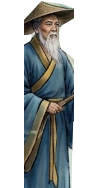
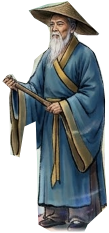
隱藏仙翁改為在涼亭左前角垂釣（鏡像全身圖＋釣竿、釣線、水面漣漪）
Claude-Session: https://claude.ai/code/session_01A7jMcJBPDH7pkvwAGS9G7v

diff --git a/index.html b/index.html
@@ -1358,6 +1358,15 @@
         .town-figure.clickable:hover { filter: drop-shadow(0 0 10px rgba(253, 230, 138, 0.8)); }
         /* 隨機躲在角落的 NPC（town-npc.js）：PNG 已自帶接地陰影並挖掉被甕擋住的部分，不加外陰影（陰影會落在甕上露餡） */
         .town-figure.town-npc { filter: none; }
+        /* 隱藏仙翁垂釣（town-npc.js 的 getTownNpcEffects）：竿、釣線用整張圖座標的 SVG；漣漪三圈輪流擴散 */
+        .tnpc-fishing { position: absolute; inset: 0; width: 100%; height: 100%; pointer-events: none; overflow: visible; }
+        .tnpc-fishing .rod { stroke: #5b3b1e; stroke-width: 1.6; stroke-linecap: round; }
+        .tnpc-fishing .line { fill: none; stroke: rgba(255, 255, 255, 0.75); stroke-width: 0.5; }
+        .tnpc-ripple { position: absolute; width: 0; height: 0; pointer-events: none; }
+        .tnpc-ripple i { position: absolute; left: 0; top: 0; width: 22px; height: 8px; margin: -4px 0 0 -11px; border: 1.5px solid rgba(255, 255, 255, 0.7); border-radius: 50%;
+            opacity: 0; animation: tnpcRipple 3s ease-out infinite; }
+        .tnpc-ripple i:nth-child(2) { animation-delay: 1s; } .tnpc-ripple i:nth-child(3) { animation-delay: 2s; }
+        @keyframes tnpcRipple { 0% { transform: scale(0.3); opacity: 0.9; } 100% { transform: scale(2.2); opacity: 0; } }
         .town-figure.baked { filter: none; }   /* 從背景圖剪下來的人物（config-towns.js 的 cls: "baked"）：影子已在圖裡 */
         .town-figure.town-top { z-index: 2; }  /* 站在傳送點範圍裡的可點人物（例：賭坊前的牧塵）：疊在傳送點上面才點得到 */
         .town-figure.baked.clickable:hover { filter: drop-shadow(0 0 6px rgba(253, 230, 138, 0.8)); }
@@ -2111,7 +2120,7 @@
         #pc-stage { display: none; position: relative; flex: none; overflow: hidden; --u: 0.93px; font-size: calc(var(--u) * 14); }
         body.layout-pc #pc-stage { display: block; }
         body.layout-pc #app-stage { display: none; }
-        body.layout-pc::before { background-image: url("images/home-bg-pc.jpg?v=20261005AN"); }
+        body.layout-pc::before { background-image: url("images/home-bg-pc.jpg?v=20261005AO"); }
         #pc-stage-bg { position: absolute; inset: 0; width: 100%; height: 100%; object-fit: fill; user-select: none; pointer-events: none; }
         #pc-hud-avatar {
             position: absolute; left: 1.890%; top: 3.255%; width: 7.558%; height: 13.542%;
@@ -2704,7 +2713,7 @@
      按鈕與建築熱點由 home-ui.js 的 renderPcStage() 依 config-home-pc.js 產生；分頁面板 #tab-sheet 在 PC 版時搬進這裡。
      id 一律是手機版的 hud-xxx 加上 pc- 前綴，updateHomeHud() 同時寫入兩邊。 -->
 <div id="pc-stage">
-    <img id="pc-stage-bg" src="images/home-bg-pc.jpg?v=20261005AN" alt="">
+    <img id="pc-stage-bg" src="images/home-bg-pc.jpg?v=20261005AO" alt="">
     <img id="pc-hud-avatar" alt="更換頭像" title="點擊更換頭像" onclick="openAvatarModal()">
     <img id="pc-hud-avatar-frame" alt="">
     <div id="pc-hud-avatar-aura" class="ys-hud-aura" aria-hidden="true"></div>
@@ -3155,7 +3164,7 @@
 </div>
 
 <div id="evil-hall-scene">
-    <img class="evil-hall-bg" src="images/evil-hall.jpg?v=20261005AN" alt="">
+    <img class="evil-hall-bg" src="images/evil-hall.jpg?v=20261005AO" alt="">
     <button class="evil-hall-back" onclick="closeEvilHallScene()">↩ 離開</button>
     <button class="evil-hall-plaque" onclick="openEvilHuntModal()" aria-label="殺手殿堂（開啟懸賞榜）">殺手殿堂</button>
 </div>
@@ -3714,123 +3723,123 @@
 
 <!-- ⚠ 版本號 ?v=：每次發佈（推上 GitHub Pages）前要把所有 ?v= 改成新的值（全部取代即可）。
      GitHub Pages 會快取檔案約 10 分鐘，沒改版本號時玩家可能拿到「舊 index.html＋新 JS」而讀檔失敗。見 ARCHITECTURE.md 第 30 節 -->
-<script src="data/format.js?v=20261005AN"></script>
-<script src="data/config-realms.js?v=20261005AN"></script>
-<script src="data/config-level.js?v=20261005AN"></script>
-<script src="data/config-lifespan.js?v=20261005AN"></script>
-<script src="data/config-maps.js?v=20261005AN"></script>
-<script src="data/config-monsters.js?v=20261005AN"></script>
-<script src="data/config-talents.js?v=20261005AN"></script>
-<script src="data/config-sects.js?v=20261005AN"></script>
-<script src="data/config-lingbao.js?v=20261005AN"></script>
-<script src="data/config-shop.js?v=20261005AN"></script>
-<script src="data/config-beasts.js?v=20261005AN"></script>
-<script src="data/config-servants.js?v=20261005AN"></script>
-<script src="data/config-equipment.js?v=20261005AN"></script>
-<script src="data/config-gear-catalog.js?v=20261005AN"></script>
-<script src="data/config-gear.js?v=20261005AN"></script>
-<script src="data/config-enhance.js?v=20261005AN"></script>
-<script src="data/config-sets.js?v=20261005AN"></script>
-<script src="data/config-profession.js?v=20261005AN"></script>
-<script src="data/config-aptitude.js?v=20261005AN"></script>
-<script src="data/config-golden-core.js?v=20261005AN"></script>
-<script src="data/config-yuanshen.js?v=20261005AN"></script>
-<script src="data/config-mailbox.js?v=20261005AN"></script>
-<script src="data/config-titles.js?v=20261005AN"></script>
-<script src="data/config-tribulation.js?v=20261005AN"></script>
-<script src="data/config-quests.js?v=20261005AN"></script>
-<script src="data/config-activities.js?v=20261005AN"></script>
-<script src="data/config-daily-quests.js?v=20261005AN"></script>
-<script src="data/config-elements.js?v=20261005AN"></script>
-<script src="data/config-merit.js?v=20261005AN"></script>
-<script src="data/config-bounty.js?v=20261005AN"></script>
-<script src="data/config-talisman.js?v=20261005AN"></script>
-<script src="data/config-avatars.js?v=20261005AN"></script>
-<script src="data/config-avatar-frames.js?v=20261005AN"></script>
-<script src="data/config-spells.js?v=20261005AN"></script>
-<script src="data/config-strange-fire.js?v=20261005AN"></script>
-<script src="data/config-partners.js?v=20261005AN"></script>
-<script src="data/config-towns.js?v=20261005AN"></script>
-<script src="data/config-casino.js?v=20261005AN"></script>
-<script src="data/config-leaderboard.js?v=20261005AN"></script>
-<script src="data/config-secret-realms.js?v=20261005AN"></script>
-<script src="data/config-world-boss.js?v=20261005AN"></script>
-<script src="data/config-defense.js?v=20261005AN"></script>
-<script src="data/config-zhenmo.js?v=20261005AN"></script>
-<script src="data/config-zhenmo-questions.js?v=20261005AN"></script>
-<script src="data/config-numeric.js?v=20261005AN"></script>
-<script src="data/config-economy.js?v=20261005AN"></script>
-<script src="data/config-encounter.js?v=20261005AN"></script>
-<script src="data/config-race.js?v=20261005AN"></script>
-<script src="data/state.js?v=20261005AN"></script>
-<script src="data/stats.js?v=20261005AN"></script>
-<script src="data/numeric.js?v=20261005AN"></script>
-<script src="data/elements.js?v=20261005AN"></script>
-<script src="data/race.js?v=20261005AN"></script>
-<script src="data/monster.js?v=20261005AN"></script>
-<script src="data/talent.js?v=20261005AN"></script>
-<script src="data/battle-fx.js?v=20261005AN"></script>
-<script src="data/ui.js?v=20261005AN"></script>
-<script src="data/map.js?v=20261005AN"></script>
-<script src="data/lingjie.js?v=20261005AN"></script>
-<script src="data/town.js?v=20261005AN"></script>
-<script src="data/casino.js?v=20261005AN"></script>
-<script src="data/combat.js?v=20261005AN"></script>
-<script src="data/leveling.js?v=20261005AN"></script>
-<script src="data/lifespan.js?v=20261005AN"></script>
-<script src="data/tribulation.js?v=20261005AN"></script>
-<script src="data/sect.js?v=20261005AN"></script>
-<script src="data/shop.js?v=20261005AN"></script>
-<script src="data/bag.js?v=20261005AN"></script>
-<script src="data/equipment.js?v=20261005AN"></script>
-<script src="data/equip-compare.js?v=20261005AN"></script>
-<script src="data/gear.js?v=20261005AN"></script>
-<script src="data/enhance.js?v=20261005AN"></script>
-<script src="data/craft.js?v=20261005AN"></script>
-<script src="data/profession.js?v=20261005AN"></script>
-<script src="data/aptitude.js?v=20261005AN"></script>
-<script src="data/golden-core.js?v=20261005AN"></script>
-<script src="data/yuanshen.js?v=20261005AN"></script>
-<script src="data/codex.js?v=20261005AN"></script>
-<script src="data/lingbao-shop.js?v=20261005AN"></script>
-<script src="data/artifact.js?v=20261005AN"></script>
-<script src="data/servant.js?v=20261005AN"></script>
-<script src="data/quest.js?v=20261005AN"></script>
-<script src="data/activity.js?v=20261005AN"></script>
-<script src="data/daily-quest.js?v=20261005AN"></script>
-<script src="data/auction.js?v=20261005AN"></script>
-<script src="data/merit.js?v=20261005AN"></script>
-<script src="data/bounty.js?v=20261005AN"></script>
-<script src="data/talisman.js?v=20261005AN"></script>
-<script src="data/strange-fire.js?v=20261005AN"></script>
-<script src="data/partner.js?v=20261005AN"></script>
-<script src="data/town-npc.js?v=20261005AN"></script>
-<script src="data/field.js?v=20261005AN"></script>
-<script src="data/economy.js?v=20261005AN"></script>
-<script src="data/encounter.js?v=20261005AN"></script>
-<script src="data/beast-combat.js?v=20261005AN"></script>
-<script src="data/spells.js?v=20261005AN"></script>
-<script src="data/beast.js?v=20261005AN"></script>
-<script src="data/library.js?v=20261005AN"></script>
-<script src="data/alchemy.js?v=20261005AN"></script>
-<script src="data/player-profile.js?v=20261005AN"></script>
-<script src="data/save.js?v=20261005AN"></script>
-<script src="data/integrity.js?v=20261005AN"></script>
-<script src="data/config-home-pc.js?v=20261005AN"></script>
-<script src="data/home-ui.js?v=20261005AN"></script>
-<script src="data/settings.js?v=20261005AN"></script>
-<script src="data/avatar.js?v=20261005AN"></script>
-<script src="data/leaderboard.js?v=20261005AN"></script>
-<script src="data/mailbox.js?v=20261005AN"></script>
-<script src="data/msgboard.js?v=20261005AN"></script>
-<script src="data/market.js?v=20261005AN"></script>
-<script src="data/secret-realm.js?v=20261005AN"></script>
-<script src="data/defense.js?v=20261005AN"></script>
-<script src="data/zhenmo.js?v=20261005AN"></script>
-<script src="data/world-boss.js?v=20261005AN"></script>
-<script src="data/title-screen.js?v=20261005AN"></script>
-<script src="data/pwa.js?v=20261005AN"></script>
-<script src="data/main.js?v=20261005AN"></script>
+<script src="data/format.js?v=20261005AO"></script>
+<script src="data/config-realms.js?v=20261005AO"></script>
+<script src="data/config-level.js?v=20261005AO"></script>
+<script src="data/config-lifespan.js?v=20261005AO"></script>
+<script src="data/config-maps.js?v=20261005AO"></script>
+<script src="data/config-monsters.js?v=20261005AO"></script>
+<script src="data/config-talents.js?v=20261005AO"></script>
+<script src="data/config-sects.js?v=20261005AO"></script>
+<script src="data/config-lingbao.js?v=20261005AO"></script>
+<script src="data/config-shop.js?v=20261005AO"></script>
+<script src="data/config-beasts.js?v=20261005AO"></script>
+<script src="data/config-servants.js?v=20261005AO"></script>
+<script src="data/config-equipment.js?v=20261005AO"></script>
+<script src="data/config-gear-catalog.js?v=20261005AO"></script>
+<script src="data/config-gear.js?v=20261005AO"></script>
+<script src="data/config-enhance.js?v=20261005AO"></script>
+<script src="data/config-sets.js?v=20261005AO"></script>
+<script src="data/config-profession.js?v=20261005AO"></script>
+<script src="data/config-aptitude.js?v=20261005AO"></script>
+<script src="data/config-golden-core.js?v=20261005AO"></script>
+<script src="data/config-yuanshen.js?v=20261005AO"></script>
+<script src="data/config-mailbox.js?v=20261005AO"></script>
+<script src="data/config-titles.js?v=20261005AO"></script>
+<script src="data/config-tribulation.js?v=20261005AO"></script>
+<script src="data/config-quests.js?v=20261005AO"></script>
+<script src="data/config-activities.js?v=20261005AO"></script>
+<script src="data/config-daily-quests.js?v=20261005AO"></script>
+<script src="data/config-elements.js?v=20261005AO"></script>
+<script src="data/config-merit.js?v=20261005AO"></script>
+<script src="data/config-bounty.js?v=20261005AO"></script>
+<script src="data/config-talisman.js?v=20261005AO"></script>
+<script src="data/config-avatars.js?v=20261005AO"></script>
+<script src="data/config-avatar-frames.js?v=20261005AO"></script>
+<script src="data/config-spells.js?v=20261005AO"></script>
+<script src="data/config-strange-fire.js?v=20261005AO"></script>
+<script src="data/config-partners.js?v=20261005AO"></script>
+<script src="data/config-towns.js?v=20261005AO"></script>
+<script src="data/config-casino.js?v=20261005AO"></script>
+<script src="data/config-leaderboard.js?v=20261005AO"></script>
+<script src="data/config-secret-realms.js?v=20261005AO"></script>
+<script src="data/config-world-boss.js?v=20261005AO"></script>
+<script src="data/config-defense.js?v=20261005AO"></script>
+<script src="data/config-zhenmo.js?v=20261005AO"></script>
+<script src="data/config-zhenmo-questions.js?v=20261005AO"></script>
+<script src="data/config-numeric.js?v=20261005AO"></script>
+<script src="data/config-economy.js?v=20261005AO"></script>
+<script src="data/config-encounter.js?v=20261005AO"></script>
+<script src="data/config-race.js?v=20261005AO"></script>
+<script src="data/state.js?v=20261005AO"></script>
+<script src="data/stats.js?v=20261005AO"></script>
+<script src="data/numeric.js?v=20261005AO"></script>
+<script src="data/elements.js?v=20261005AO"></script>
+<script src="data/race.js?v=20261005AO"></script>
+<script src="data/monster.js?v=20261005AO"></script>
+<script src="data/talent.js?v=20261005AO"></script>
+<script src="data/battle-fx.js?v=20261005AO"></script>
+<script src="data/ui.js?v=20261005AO"></script>
+<script src="data/map.js?v=20261005AO"></script>
+<script src="data/lingjie.js?v=20261005AO"></script>
+<script src="data/town.js?v=20261005AO"></script>
+<script src="data/casino.js?v=20261005AO"></script>
+<script src="data/combat.js?v=20261005AO"></script>
+<script src="data/leveling.js?v=20261005AO"></script>
+<script src="data/lifespan.js?v=20261005AO"></script>
+<script src="data/tribulation.js?v=20261005AO"></script>
+<script src="data/sect.js?v=20261005AO"></script>
+<script src="data/shop.js?v=20261005AO"></script>
+<script src="data/bag.js?v=20261005AO"></script>
+<script src="data/equipment.js?v=20261005AO"></script>
+<script src="data/equip-compare.js?v=20261005AO"></script>
+<script src="data/gear.js?v=20261005AO"></script>
+<script src="data/enhance.js?v=20261005AO"></script>
+<script src="data/craft.js?v=20261005AO"></script>
+<script src="data/profession.js?v=20261005AO"></script>
+<script src="data/aptitude.js?v=20261005AO"></script>
+<script src="data/golden-core.js?v=20261005AO"></script>
+<script src="data/yuanshen.js?v=20261005AO"></script>
+<script src="data/codex.js?v=20261005AO"></script>
+<script src="data/lingbao-shop.js?v=20261005AO"></script>
+<script src="data/artifact.js?v=20261005AO"></script>
+<script src="data/servant.js?v=20261005AO"></script>
+<script src="data/quest.js?v=20261005AO"></script>
+<script src="data/activity.js?v=20261005AO"></script>
+<script src="data/daily-quest.js?v=20261005AO"></script>
+<script src="data/auction.js?v=20261005AO"></script>
+<script src="data/merit.js?v=20261005AO"></script>
+<script src="data/bounty.js?v=20261005AO"></script>
+<script src="data/talisman.js?v=20261005AO"></script>
+<script src="data/strange-fire.js?v=20261005AO"></script>
+<script src="data/partner.js?v=20261005AO"></script>
+<script src="data/town-npc.js?v=20261005AO"></script>
+<script src="data/field.js?v=20261005AO"></script>
+<script src="data/economy.js?v=20261005AO"></script>
+<script src="data/encounter.js?v=20261005AO"></script>
+<script src="data/beast-combat.js?v=20261005AO"></script>
+<script src="data/spells.js?v=20261005AO"></script>
+<script src="data/beast.js?v=20261005AO"></script>
+<script src="data/library.js?v=20261005AO"></script>
+<script src="data/alchemy.js?v=20261005AO"></script>
+<script src="data/player-profile.js?v=20261005AO"></script>
+<script src="data/save.js?v=20261005AO"></script>
+<script src="data/integrity.js?v=20261005AO"></script>
+<script src="data/config-home-pc.js?v=20261005AO"></script>
+<script src="data/home-ui.js?v=20261005AO"></script>
+<script src="data/settings.js?v=20261005AO"></script>
+<script src="data/avatar.js?v=20261005AO"></script>
+<script src="data/leaderboard.js?v=20261005AO"></script>
+<script src="data/mailbox.js?v=20261005AO"></script>
+<script src="data/msgboard.js?v=20261005AO"></script>
+<script src="data/market.js?v=20261005AO"></script>
+<script src="data/secret-realm.js?v=20261005AO"></script>
+<script src="data/defense.js?v=20261005AO"></script>
+<script src="data/zhenmo.js?v=20261005AO"></script>
+<script src="data/world-boss.js?v=20261005AO"></script>
+<script src="data/title-screen.js?v=20261005AO"></script>
+<script src="data/pwa.js?v=20261005AO"></script>
+<script src="data/main.js?v=20261005AO"></script>
 
 </body>
 </html>

diff --git a/data/config-towns.js b/data/config-towns.js
@@ -314,10 +314,12 @@ const townScenes = {
         // 隱藏仙翁（2026-10-04 使用者：「涼亭改成場景，圖內場景有機會出現仙翁；解鎖條件魅力 10000」）：涼亭只是背景（沒有按鈕），
         //   魅力（本身＋裝備）≥ minCha 時，每次登島 chance 機率出現在涼亭裡；點他開對話（town-npc.js 的 talkToXianweng），當天見過就不再出現
         //   人物圖：從青瀾島島景圖的垂釣老者沿輪廓去背（2026-10-04 使用者：「去背景，讓玩家不注意會忽略，人物身高比例要正常」）：
-        //     場景用 npc-xianweng.png（約 117px 身高、略降亮度；站在涼亭正面兩根前柱之後，柱子與欄杆擋住的部分直接透明）；對話視窗用全身 npc-xianweng-portrait.png
+        //     場景用 npc-xianweng.png（全身約 117px、略降亮度、左右鏡像讓釣竿朝左邊河面；使用者要背影但沒有背影圖，選擇沿用這張）；對話視窗用全身 npc-xianweng-portrait.png
         hiddenNpcs: [{
             id: "xianweng", kind: "xianweng", name: "隱藏仙翁", place: "青瀾島", chance: 0.2, minCha: 10000,
-            spots: [{ img: "images/towns/npc-xianweng.png", rect: [503, 363, 55, 94] }],   // 身高約 117px；只露出兩根前柱之間（x 515～540）、欄杆以上，像躲在涼亭裡
+            spots: [{ img: "images/towns/npc-xianweng.png", rect: [345, 369, 55, 117] }],   // 涼亭左前角的台基上（使用者確認的位置），面向左邊河面垂釣
+            // 釣魚演出（town-npc.js 的 getTownNpcEffects）：竿＝手 → 竿尖、釣線＝竿尖 → 水面、水面漣漪（圖上座標）
+            fishing: { hand: [349, 408], tip: [262, 350], hook: [256, 512] },
             portrait: "images/towns/npc-xianweng-portrait.png",
             lines: {
                 greet: "呵呵……老夫在此垂釣三百年，釣的不是魚，是有緣人。\n小友魅力過人，與老夫甚是投緣——這一竿，送你一場造化。",

diff --git a/gm.html b/gm.html
@@ -333,19 +333,19 @@
     </div>
 </main>
 
-<script src="data/config-realms.js?v=20261005AN"></script>
+<script src="data/config-realms.js?v=20261005AO"></script>
 <!-- 數值重做新制（2026-09-28 上線）：戰力上限、一般玩家倍率、守城妖潮強度都用新制算法（config-numeric.js／numeric.js 只宣告常數與函式） -->
-<script src="data/config-numeric.js?v=20261005AN"></script>
-<script src="data/numeric.js?v=20261005AN"></script>
-<script src="data/config-leaderboard.js?v=20261005AN"></script>
-<script src="data/config-mailbox.js?v=20261005AN"></script>
+<script src="data/config-numeric.js?v=20261005AO"></script>
+<script src="data/numeric.js?v=20261005AO"></script>
+<script src="data/config-leaderboard.js?v=20261005AO"></script>
+<script src="data/config-mailbox.js?v=20261005AO"></script>
 <!-- 發放獎勵的先天資質選單（config-aptitude.js 只有常數） -->
-<script src="data/config-aptitude.js?v=20261005AN"></script>
+<script src="data/config-aptitude.js?v=20261005AO"></script>
 <!-- 守城審核：該波妖潮強度 defenseWaveAtk（config-defense.js）需要 bounty.js 的 getBountyRefSectMult（只宣告常數與函式，不會執行遊戲邏輯） -->
-<script src="data/config-bounty.js?v=20261005AN"></script>
-<script src="data/bounty.js?v=20261005AN"></script>
-<script src="data/config-defense.js?v=20261005AN"></script>
-<script src="data/config-world-boss.js?v=20261005AN"></script>
+<script src="data/config-bounty.js?v=20261005AO"></script>
+<script src="data/bounty.js?v=20261005AO"></script>
+<script src="data/config-defense.js?v=20261005AO"></script>
+<script src="data/config-world-boss.js?v=20261005AO"></script>
 <script>
 // ================== 設定（與 tools/firestore.rules 保持一致）==================
 // 新制戰力上限（與 tools/firestore.rules 相同）：400 ＋ 境界 × 40；理論最高約佔 40～46%

diff --git a/data/town-npc.js b/data/town-npc.js
@@ -110,6 +110,18 @@ function getTownNpcFigures(sceneName, view) {
     return [{ id: 'npc-' + hit.npc.id, name: hit.npc.name, img: hit.spot.img, rect: hit.spot.rect, cls: 'town-npc', action: `${fn}('${sceneName}')` }];
 }
 
+// NPC 的場景演出（例：隱藏仙翁垂釣＝竿、釣線、水面漣漪）：畫在人偶底下、不擋點擊；npc 沒有 fishing 就不畫
+function getTownNpcEffects(sceneName, view) {
+    const hit = townNpcSpots[sceneName];
+    if (!hit || view !== townScenes[sceneName] || !hit.npc.fishing) return '';
+    const F = hit.npc.fishing, W = view.imgW, H = view.imgH, [hx, hy] = F.hand, [tx, ty] = F.tip, [kx, ky] = F.hook;
+    const pos = (x, y) => `left: ${(x / W * 100).toFixed(3)}%; top: ${(y / H * 100).toFixed(3)}%;`;
+    return `<svg class="tnpc-fishing" viewBox="0 0 ${W} ${H}" preserveAspectRatio="none" aria-hidden="true">
+            <line x1="${hx}" y1="${hy}" x2="${tx}" y2="${ty}" class="rod"/>
+            <path d="M${tx} ${ty} Q ${tx - 4} ${(ty + ky) / 2} ${kx} ${ky}" class="line"/></svg>
+        <div class="tnpc-ripple" style="${pos(kx, ky)}" aria-hidden="true"><i></i><i></i><i></i></div>`;
+}
+
 // 從畫面上拿掉（處理完畢）
 function removeTownNpc(sceneName) {
     delete townNpcSpots[sceneName];

diff --git a/data/town.js b/data/town.js
@@ -100,7 +100,8 @@ function renderTownHotspots(view) {
                     style="left: ${pct(x, view.imgW)}; top: ${pct(y, view.imgH)}; width: ${pct(w, view.imgW)}; height: ${pct(hh, view.imgH)};">`;
     }).join('');
     // 場景異象（effects，例：人界地圖飛升點上方雷電交加）：畫在最底層、不擋點擊
-    const effects = (view.effects || []).map(e => TOWN_SCENE_FX[e.fx] ? TOWN_SCENE_FX[e.fx](view, e.at, e) : '').join('');
+    const effects = (view.effects || []).map(e => TOWN_SCENE_FX[e.fx] ? TOWN_SCENE_FX[e.fx](view, e.at, e) : '').join('')
+        + (typeof getTownNpcEffects === 'function' ? getTownNpcEffects(currentTownScene, view) : '');   // NPC 演出（例：隱藏仙翁垂釣，town-npc.js）
     layer.innerHTML = effects + figures + (view.hotspots || []).filter(h => h.enabled !== false).map(h => {
         const [x, y, w, hh] = h.rect;
         // pin：小紅點樣式（人界地圖用）＝ rect 正中央一顆會呼吸發光的紅點，不顯示名稱（label 只當 title／aria-label）
